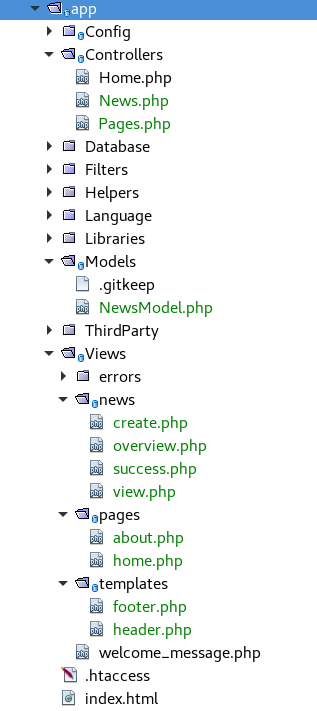
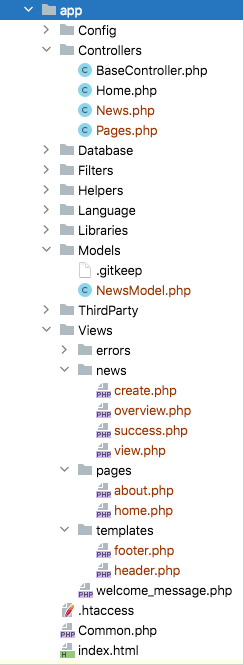
docs: update screenshot and its explanation

Changed region(s): [[0.0, 0.0, 1.0, 1.0], [0.1721, 0.812, 0.2008, 0.8421]]

diff --git a/source/tutorial/create_news_items.rst b/source/tutorial/create_news_items.rst
@@ -181,8 +181,8 @@ Congratulations
 You just completed your first CodeIgniter4 application!
 
 The image underneath shows your project's **app** folder,
-with all of the files that you created in green.
-The two modified configuration files (Database & Routes) are not shown.
+with all of the files that you created in red.
+The two modified configuration files (**Config/Routes.php** & **Config/Filters.php**) are not shown.
 
 .. image:: ../images/tutorial9.png
     :align: left
